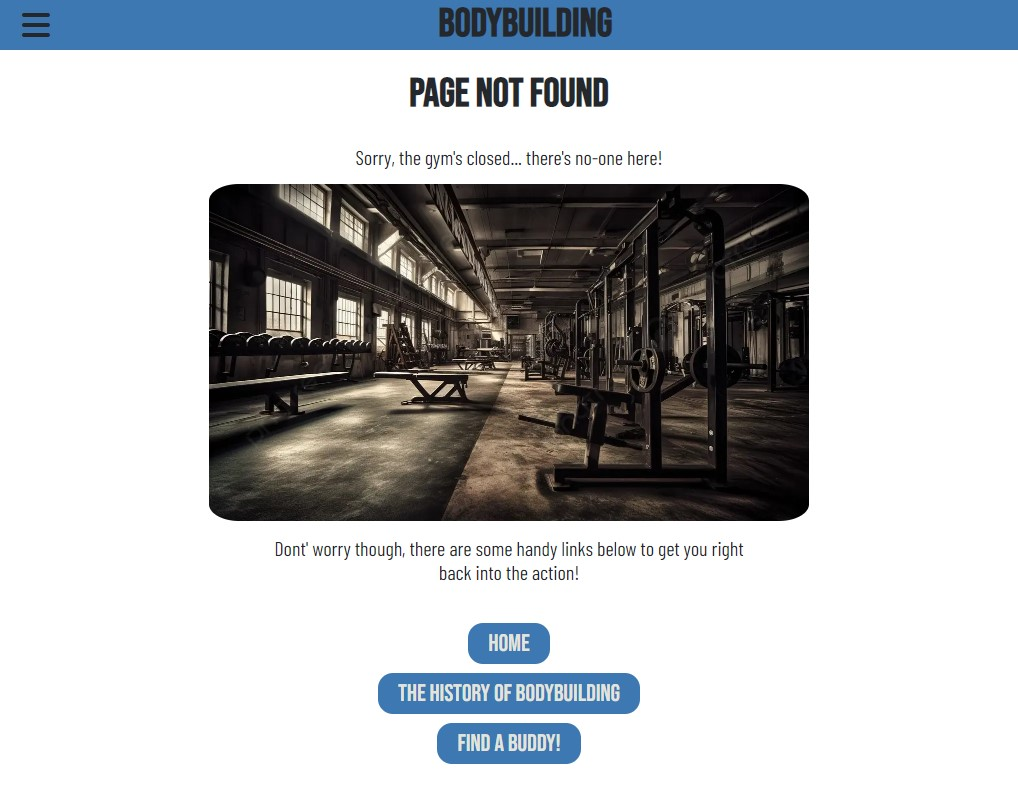
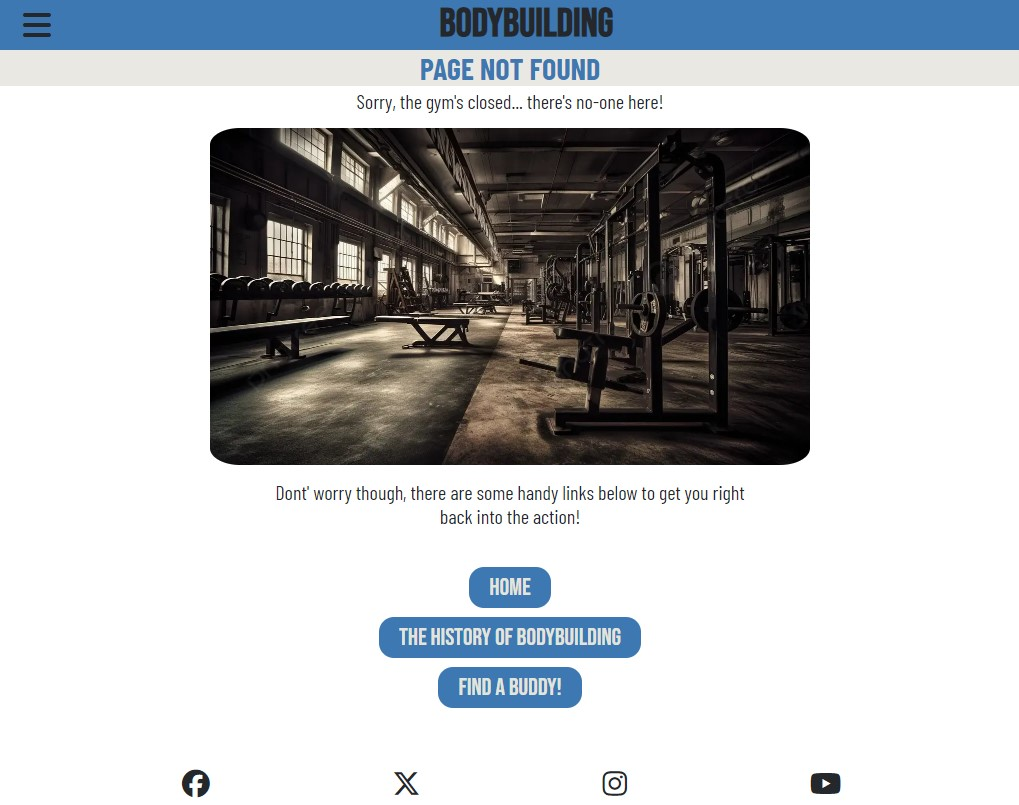
changed heading on 404 page from h1 to h2

diff --git a/404.html b/404.html
@@ -60,7 +60,7 @@
     <main>
       <!-- 404 Page not found heading -->
       <section class="thanks-not-found">
-        <h1>Page not found</h1>
+        <h2>Page not found</h2>
         <p>Sorry, the gym's closed... there's no-one here!</p>
         <!-- Picture of an empty gym -->
         <div class="picture-1">
